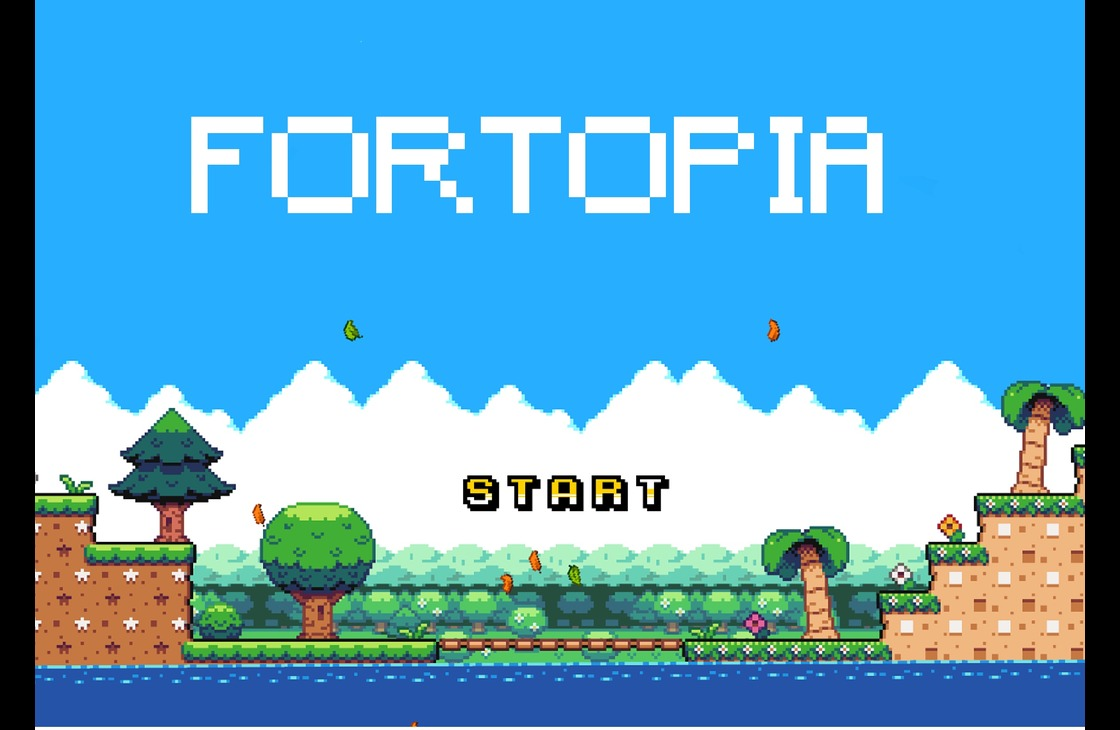
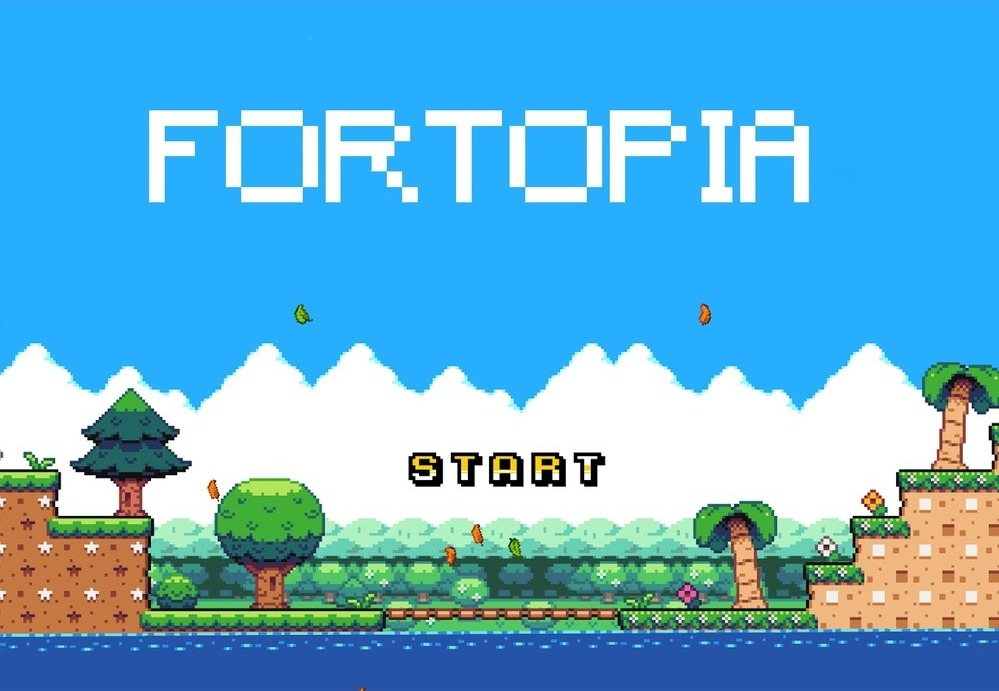
created welcome world and made the button to make it change to story world

diff --git a/Fortopia/Button.java b/Fortopia/Button.java
@@ -1,0 +1,28 @@
+import greenfoot.*;  // (World, Actor, GreenfootImage, Greenfoot and MouseInfo)
+
+/**
+ * Write a description of class Button here.
+ * 
+ * @Natalie 
+ * @version (a version number or a date)
+ */
+public class Button extends Actor
+{
+    private GreenfootImage button1 = new GreenfootImage("redbutton.png");
+    private GreenfootImage button2 = new GreenfootImage("greenbutton.png");
+    private boolean mouseDown;
+     
+    public Button() {
+        setImage(button1);
+        mouseDown = false;
+    }
+ 
+    public void act() {
+        if (!mouseDown && Greenfoot.mousePressed(this)) {  
+            setImage(button2); 
+        }  
+        if (mouseDown && Greenfoot.mouseClicked(this)) {
+            setImage(button1);
+        }  
+    }
+}

diff --git a/Fortopia/WelcomeWorld.java b/Fortopia/WelcomeWorld.java
@@ -8,14 +8,22 @@ import greenfoot.*;  // (World, Actor, GreenfootImage, Greenfoot and MouseInfo)
  */
 public class WelcomeWorld extends World
 {
-
+    Button start = new Button();
+    
+    
     /**
      * Constructor for objects of class WelcomeWorld.
      * 
      */
     public WelcomeWorld()
     {    
-        // Create a new world with 600x400 cells with a cell size of 1x1 pixels.
         super(1000, 700, 1); 
+        addObject(start, 640, 470);
+    }
+    
+    public void act(){
+        if(Greenfoot.mouseClicked(start)){
+            Greenfoot.setWorld(new StoryWorld());
+        }
     }
 }

diff --git a/Fortopia/StoryWorld.java b/Fortopia/StoryWorld.java
@@ -1,0 +1,21 @@
+import greenfoot.*;  // (World, Actor, GreenfootImage, Greenfoot and MouseInfo)
+
+/**
+ * Write a description of class StoryWorld here.
+ * 
+ * @author (your name) 
+ * @version (a version number or a date)
+ */
+public class StoryWorld extends World
+{
+
+    /**
+     * Constructor for objects of class StoryWorld.
+     * 
+     */
+    public StoryWorld()
+    {    
+        // Create a new world with 600x400 cells with a cell size of 1x1 pixels.
+        super(1000, 700, 1); 
+    }
+}
